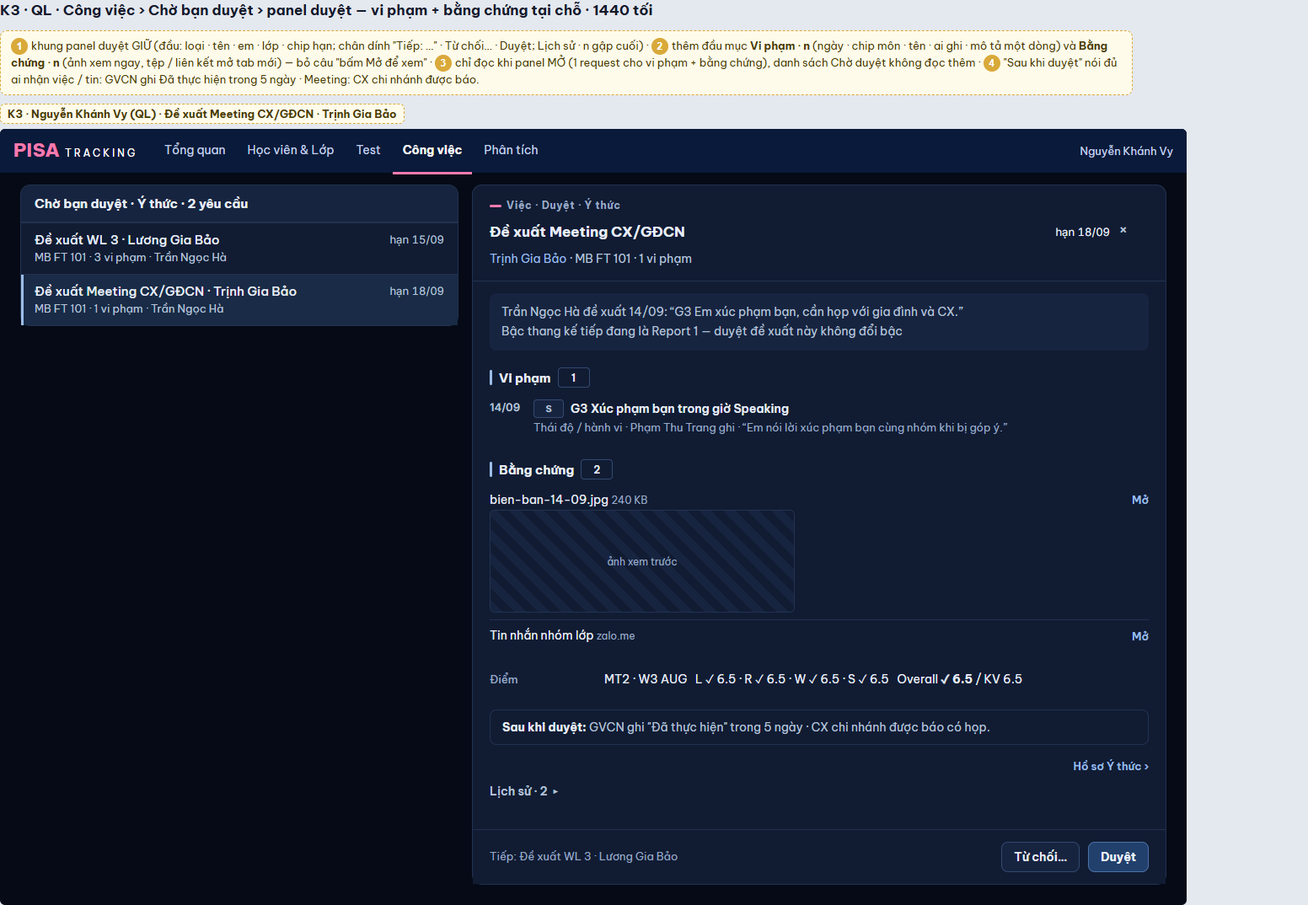
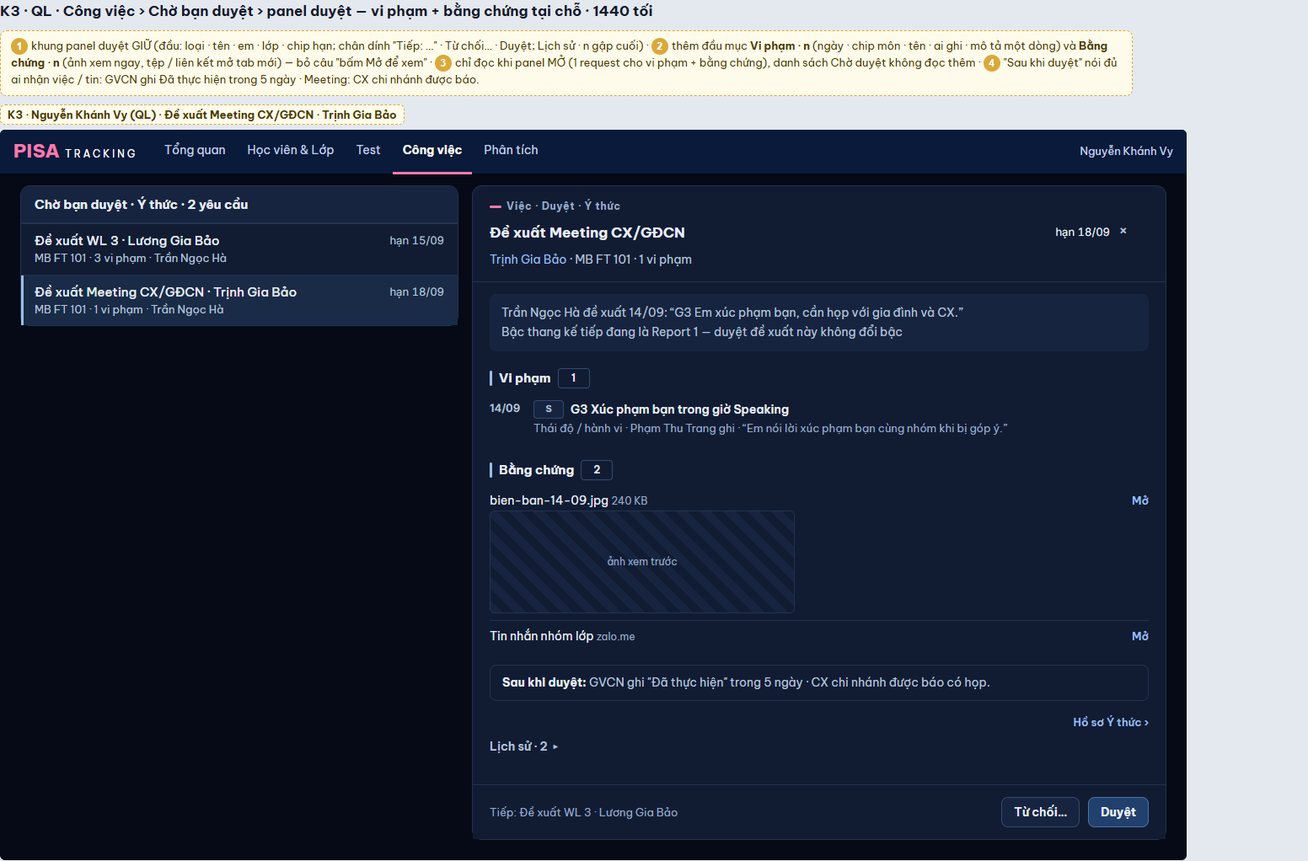
Ý thức #6 (web): đề xuất một màn (bằng chứng trong form, một nút Gửi QL duyệt) · panel duyệt QL hiện vi phạm + bằng chứng · mockup bỏ dòng Điểm · ảnh cặp + khop-khac

diff --git a/web/src/modules/yThuc/XacNhanXuLyPanel.tsx b/web/src/modules/yThuc/XacNhanXuLyPanel.tsx
@@ -7,7 +7,6 @@ import { useLoiForm } from '../../ui/loiForm.tsx';
 import { ONgay } from '../../ui/ONgay.tsx';
 import { ChipHan } from '../../ui/Nhan.tsx';
 import { BoiCanh, CanLam, NutChu, TrangThaiLuu, dauViec } from '../../ui/KhuonViec.tsx';
-import { BangChung } from '../../ui/BangChung.tsx';
 import { TepCho, taiTepCho, type TepChoMuc } from '../../ui/TepCho.tsx';
 import { ChonNguoi } from '../../ui/PeoplePicker.tsx';
 import { OKhac } from '../../ui/OKhac.tsx';
@@ -35,7 +34,7 @@ const canTep = (loai: string) => (LOAI_DE_XUAT as readonly string[]).includes(lo
  *
  * Xác nhận xử lý: bậc TỰ ĐIỀN (chỉ đọc — máy chủ quyết, `bacDaThay` lệch → 409), vi phạm tick theo `macDinhTick` (K3-36, nhóm
  * "Cũ hơn" gập), ngày ≤ hôm nay, người thực hiện (nhận tên ngoài), mô tả bắt buộc. Lưu xong ở lại panel để đính kèm tệp (tuỳ chọn).
- * Đề xuất: loại · vi phạm · mô tả → `Tiếp: đính kèm bằng chứng` tạo NHÁP (chủ của tệp) → bằng chứng BẮT BUỘC → `Gửi QL duyệt`.
+ * Đề xuất (#6, mockup #1346 — MỘT màn): loại · vi phạm · lý do · bằng chứng (chọn trong form, BẮT BUỘC với loại ngoài thang) → `Gửi QL duyệt`.
  * Đóng panel khi nháp chưa gửi thì xoá nháp (Q10). Bậc kế cần QL (WL 3) hoặc hết thang → mở thẳng chế độ Đề xuất.
  * OV-12e (mockup v3 §8): khuôn panel v3 — đầu "Xác nhận xử lý" + chip hạn / tên em (link) · lớp · Ý thức; MỘT khối Cần làm (Bậc xử lý tự điền · vi phạm đưa vào
  * · Ngày * (ô ngày gõ được) · Người * · Mô tả * · nút chính; "Đề xuất QL duyệt" là nút chữ); Bối cảnh: Lần trước · Bậc tiếp theo; chân trạng thái lưu.
@@ -67,11 +66,12 @@ export function XacNhanXuLyPanel({ studentId, cheDo: cheDoMo = 'xu-ly', tickThem
   /** [XM 5] (chủ SP 11/11): tệp chọn NGAY trong form (như Ghi vi phạm), tải sau khi lưu — không tệp / tải xong thì panel tự đóng, không bước "Xong". */
   const [tep, setTep] = useState<TepChoMuc[]>([]);
   const [loiLuu, setLoiLuu] = useState<string | null>(null);
-  /** Sau khi lưu: lần xử lý vừa tạo (bước đính kèm tệp tuỳ chọn) hoặc NHÁP đề xuất (bước bằng chứng bắt buộc). */
-  const [daLuu, setDaLuu] = useState<{ id: number; loai: 'xu-ly' | 'nhap'; nhan: string } | null>(null);
+  /** Sau khi lưu xử lý mà tệp tải lỗi: lần xử lý vừa tạo (ở lại để Thử lại tệp). */
+  const [daLuu, setDaLuu] = useState<{ id: number; loai: 'xu-ly'; nhan: string } | null>(null);
+  /** #6: nháp đề xuất đã tạo nhưng chưa gửi (tệp lỗi) — đóng panel thì xoá. */
+  const nhapDo = useRef<number | null>(null);
   const lf = useLoiForm();
   const idempotencyKey = useMemo(() => `xu-ly:${studentId}:${Date.now()}:${Math.random().toString(36).slice(2, 8)}`, [studentId]);
-  const nhap = useApi<XuLyView>(daLuu?.loai === 'nhap' ? `/y-thuc/xu-ly/${daLuu.id}` : null, [daLuu?.id]);
 
   useEffect(() => {
     if (!d) return;
@@ -101,13 +101,15 @@ export function XacNhanXuLyPanel({ studentId, cheDo: cheDoMo = 'xu-ly', tickThem
     ...(cheDo === 'de-xuat' && loai === 'other' ? [{ khoa: 'ghi-ro', nhan: t('Ghi rõ'), toiThieu: KHAC_TOI_THIEU }] : []),
     { khoa: 'mo-ta', nhan: t('Mô tả'), toiThieu: MO_TA_MIN },
   ], { 'vi-pham': chon.size ? 'co' : '', loai, 'ghi-ro': tenKhac, 'mo-ta': moTa }).concat(
-    cheDo === 'xu-ly' && tep.some((m) => m.loi && !m.daGui) ? [{ khoa: 'tep', nhan: t('Tệp'), lyDo: t('Bỏ tệp lỗi') }] : []);
+    tep.some((m) => m.loi && !m.daGui) ? [{ khoa: 'tep', nhan: t('Tệp'), lyDo: t('Bỏ tệp lỗi') }]
+      /* #6: đề xuất loại ngoài thang bắt bằng chứng (V4-10, LUAT-5) — báo ngay khi bấm Gửi, không gọi máy chủ. */
+      : cheDo === 'de-xuat' && canTep(loai) && !tep.length ? [{ khoa: 'tep', nhan: t('Bằng chứng'), lyDo: t('Cần đính kèm tệp hoặc liên kết') }] : []);
   const loiNguoi = cheDo === 'xu-ly' ? nguoiThieu(nguoi, true) : null;
 
-  /** Đóng: nháp chưa gửi thì xoá (không để nháp mồ côi); lần xử lý đã lưu thì báo nơi gọi làm mới. */
+  /** Đóng: đề xuất dở (tệp tải lỗi, chưa gửi) thì xoá nháp máy chủ — chữ đang gõ vẫn ở nháp của panel. */
   const dong = async () => {
-    if (daLuu?.loai === 'nhap') {
-      try { await api.del(`/y-thuc/xu-ly/${daLuu.id}`); } catch { /* nháp đã gửi hoặc đã xoá — không có gì để dọn */ }
+    if (nhapDo.current) {
+      try { await api.del(`/y-thuc/xu-ly/${nhapDo.current}`); } catch { /* nháp đã gửi hoặc đã xoá — không có gì để dọn */ }
     }
     onClose();
   };
@@ -156,28 +158,29 @@ export function XacNhanXuLyPanel({ studentId, cheDo: cheDoMo = 'xu-ly', tickThem
     setDaLuu({ id, loai: 'xu-ly', nhan });
   };
 
-  const taoNhap = async () => {
+  /**
+   * #6 (mockup #1346 K1–K2): MỘT nút "Gửi QL duyệt" = tạo nháp (chủ của tệp) → tải tệp chờ → gửi. Tệp lỗi → chưa gửi (QL chưa thấy gì), ở lại, chữ giữ;
+   * Thử lại = làm lại từ đầu (máy chủ dọn nháp cũ của cùng người · cùng em, tải lại mọi tệp) — form có thể đã sửa giữa hai lần.
+   */
+  const guiDeXuat = async () => {
     lf.bam();
     if (loi.length) return;
-    setBusy(true);
+    setBusy(true); setLoiLuu(null);
     try {
       const m = await api.post<{ id: number; nhan: string }>(`/students/${studentId}/y-thuc/de-xuat`, {
         kind: loai, customName: loai === 'other' ? tenKhac.trim() : undefined, violationIds: [...chon], note: moTa.trim(),
       });
-      xoaNhap();
-      setDaLuu({ id: m.id, loai: 'nhap', nhan: m.nhan });
-    } catch (e: any) { toast.push('error', e.message); } finally { setBusy(false); }
-  };
-
-  const gui = async () => {
-    if (!daLuu) return;
-    setBusy(true);
-    try {
-      await api.post(`/y-thuc/xu-ly/${daLuu.id}/gui`);
-      lamMoi();
-      toast.push('ok', t('Đã gửi QL duyệt {nhan} cho {ten}. QL trả lời trong 5 ngày.', { nhan: daLuu.nhan, ten: d.ten }));
-      onClose(); onDone?.();
-    } catch (e: any) { toast.push('error', e.message); } finally { setBusy(false); }
+      nhapDo.current = m.id;
+      const kq = await taiTepCho(tep.map((x) => ({ ...x, xong: undefined, tuId: undefined, loi: undefined, daGui: undefined })), { ownerType: 'discipline_measure', ownerIds: [m.id] });
+      setTep(kq);
+      const loiTep = kq.filter((x) => !x.xong).length;
+      if (loiTep) { setLoiLuu(t('Chưa gửi — {n} tệp tải lỗi', { n: loiTep })); return; }
+      await api.post(`/y-thuc/xu-ly/${m.id}/gui`);
+      nhapDo.current = null;
+      xoaNhap(); setMoTa(''); lamMoi(); onDone?.();
+      toast.push('ok', t('Đã gửi QL duyệt {nhan} cho {ten}. QL trả lời trong 5 ngày.', { nhan: m.nhan, ten: d.ten }));
+      setTimeout(onClose, 0);
+    } catch (e: any) { setLoiLuu(e.message); } finally { setBusy(false); }
   };
 
   /* ---------------------------------------------------------------- bước 2: đã lưu */
@@ -199,31 +202,6 @@ export function XacNhanXuLyPanel({ studentId, cheDo: cheDoMo = 'xu-ly', tickThem
       </KhungPanel>
     );
   }
-  if (daLuu?.loai === 'nhap') {
-    const soTep = nhap.data?.soTep ?? 0;
-    const thieuTep = soTep === 0 && canTep(loai);
-    const nutGui = <button type="button" className="btn btn-primary min-h-[40px] px-4 font-bold" disabled={busy}
-      onClick={() => { lf.bam(); if (!thieuTep) void gui(); }}>{t('Gửi Quản lý duyệt · trả lời trong 5 ngày')}</button>;
-    return (
-      <KhungPanel tieuDe={t('Đề xuất QL duyệt')} hocVien={d.ten} onDong={dong} dau={dau(false)}
-        chan={{ v3: true, chinh: nutGui, conThieu: thieuTep && lf.daBam ? [{ nhan: t('Bằng chứng'), lyDo: t('Cần đính kèm tệp hoặc liên kết') }] : undefined }}>
-        <div className="flex flex-col gap-5 pt-4">
-          <CanLam>
-            <p className="m-0 text-sm font-bold text-slate-100">{dich(daLuu.nhan)} · {t('{n} vi phạm', { n: chon.size })}</p>
-            <div>
-              <span className="mb-1 block text-[13px] font-semibold text-slate-300">{t('Bằng chứng')}{canTep(loai) && <span aria-hidden className="text-bad"> *</span>}</span>
-              <BangChung ownerType="discipline_measure" ownerId={daLuu.id} canEdit tieuDe="" onChanged={nhap.reload} />
-            </div>
-            <div className="flex flex-wrap items-center gap-1.5 pt-0.5">
-              <span className="max-sm:hidden">{nutGui}</span>
-              <NutChu mo onClick={() => void dong()}>{t('Huỷ đề xuất')}</NutChu>
-            </div>
-          </CanLam>
-        </div>
-      </KhungPanel>
-    );
-  }
-
   /* ---------------------------------------------------------------- bước 1 */
   const bacKe = d.keTiep;
   const dongVp = (v: ViPhamV4) => (
@@ -249,21 +227,23 @@ export function XacNhanXuLyPanel({ studentId, cheDo: cheDoMo = 'xu-ly', tickThem
   const bacSau = iNay >= 0 ? d.dongThang[iNay + 1]?.nhan ?? null : null;
   const nutChinh = cheDo === 'xu-ly'
     ? <button type="button" className="btn btn-primary min-h-[40px] px-4 font-bold" disabled={busy} onClick={luuXuLy}>{busy ? t('Đang lưu…') : t('Xác nhận xử lý')}</button>
-    : <button type="button" className="btn btn-primary min-h-[40px] px-4 font-bold" disabled={busy} onClick={taoNhap}>{t('Tiếp: đính kèm bằng chứng')}</button>;
+    : <button type="button" className="btn btn-primary min-h-[40px] px-4 font-bold" disabled={busy} onClick={() => void guiDeXuat()}>{busy ? t('Đang gửi…') : t('Gửi QL duyệt')}</button>;
   const nhanO = (chu: string, batBuoc = false) => <span className="mb-1.5 block text-[13px] font-semibold text-slate-300">{chu}{batBuoc && <span aria-hidden className="text-bad"> *</span>}</span>;
   return (
-    <KhungPanel tieuDe={tieuDe} hocVien={d.ten} onDong={onClose} dau={dau(cheDo === 'xu-ly')}
+    <KhungPanel tieuDe={tieuDe} hocVien={d.ten} onDong={() => void dong()} dau={dau(cheDo === 'xu-ly')}
       chan={{
         v3: true, chinh: nutChinh, daSua: !!moTa.trim(),
         conThieu: lf.conThieu(loi) ?? (lf.daBam && loiNguoi ? [{ nhan: t('Người thực hiện'), lyDo: loiNguoi }] : undefined),
-        dongTren: busy || loiLuu ? <TrangThaiLuu tt={busy ? 'dang' : 'loi'} loi={loiLuu} onThuLai={() => void luuXuLy()} /> : undefined,
+        dongTren: busy || loiLuu ? <TrangThaiLuu tt={busy ? 'dang' : 'loi'} loi={loiLuu} onThuLai={() => void (cheDo === 'xu-ly' ? luuXuLy() : guiDeXuat())} /> : undefined,
       }}>
       <div className="flex flex-col gap-5 pt-4">
         {/* Y-THUC-V2 (mockup K8a / K8c): dải ①②③ cùng thứ tự tab Ý thức — bước GVCN là việc của người xem. */}
         <TienTrinh nay={1} buoc={[
           [t('{n} vi phạm', { n: tick.length + cuHon.length }), ngayVp.length ? `${ngay(ngayVp[0], homNay)} – ${ngay(ngayVp[ngayVp.length - 1], homNay)}` : null],
-          [d.nhom ? <CanLamEm x={d} homNay={homNay} /> : t('Xác nhận xử lý'), cheDo === 'xu-ly' && bacKe ? <>{t('Lần này')} <b className="text-slate-100">{dich(bacKe.nhan)}</b></> : null],
-          [<span className="font-medium text-slate-400">{t('Sau khi lưu')}</span>, t('việc cho TVV của em, hạn 5 ngày')],
+          /* #6 (mockup #1346 K1): đề xuất — ô ② nói việc đang làm (Gửi QL duyệt) + ai trả lời khi nào. */
+          cheDo === 'de-xuat' ? [t('Gửi QL duyệt'), t('QL trả lời trong 5 ngày')]
+            : [d.nhom ? <CanLamEm x={d} homNay={homNay} /> : t('Xác nhận xử lý'), bacKe ? <>{t('Lần này')} <b className="text-slate-100">{dich(bacKe.nhan)}</b></> : null],
+          [<span className="font-medium text-slate-400">{cheDo === 'xu-ly' ? t('Sau khi lưu') : t('Sau khi gửi')}</span>, t('việc cho TVV của em, hạn 5 ngày')],
         ]} />
         <CanLam>
           {cheDo === 'xu-ly' && bacKe ? (
@@ -342,11 +322,10 @@ export function XacNhanXuLyPanel({ studentId, cheDo: cheDoMo = 'xu-ly', tickThem
               placeholder={cheDo === 'xu-ly' ? t('Ví dụ: Đã gửi Report cho PH qua Zalo')
                 : t('Ví dụ: Vi phạm lần 4 sau WL 2, đã báo PH')} />
           </Truong>
-          {cheDo === 'xu-ly' && (
-            <Truong nhan={t('Bằng chứng')} tuyChon as="div">
-              <div id={lf.oId('tep')} tabIndex={-1}><TepCho value={tep} onChange={setTep} khoa={busy} /></div>
-            </Truong>
-          )}
+          {/* [XM 5] / #6: bằng chứng chọn NGAY trong form — tải sau khi lưu / khi Gửi. Đề xuất loại ngoài thang: bắt buộc. */}
+          <Truong nhan={t('Bằng chứng')} batBuoc={cheDo === 'de-xuat' && canTep(loai)} tuyChon={!(cheDo === 'de-xuat' && canTep(loai))} as="div" loi={lf.loiCua(loi, 'tep')}>
+            <div id={lf.oId('tep')} tabIndex={-1}><TepCho value={tep} onChange={setTep} khoa={busy} /></div>
+          </Truong>
           <div className="flex flex-wrap items-center gap-1.5 pt-0.5">
             <span className="max-sm:hidden">{nutChinh}</span>
             {/* Chủ sản phẩm 02/10 → mockup v3 §8: "Đề xuất QL duyệt" là nút chữ đứng sau nút chính. */}

diff --git a/web/src/modules/yThuc/KhoiDuyetYThuc.tsx b/web/src/modules/yThuc/KhoiDuyetYThuc.tsx
@@ -1,0 +1,69 @@
+import { useApi } from '../../lib/useApi.ts';
+import { ErrorState, Skeleton } from '../../ui/ui.tsx';
+import { useNgayNghiepVu } from '../../ui/ngayNghiepVu.ts';
+import { fmtSize } from '../../ui/TepCho.tsx';
+import { ngay } from '@shared/domain/index.ts';
+import { dich, t } from '@shared/i18n/index.ts';
+import { ChipMon } from './BangLan.tsx';
+import type { XuLyView } from './kieu.ts';
+
+type Tep = { id: number; kind: 'file' | 'link'; displayName: string; href: string; sizeBytes: number | null };
+const LA_ANH = /\.(png|jpe?g|gif|webp)$/i;
+const tenMien = (url: string) => { try { return new URL(url).host; } catch { return url; } };
+
+/** Đầu mục trong panel (V21: 15 / 700, vạch 3 × 18 px nhấn, chip đếm vuông). */
+function DauMuc({ chu, n }: { chu: string; n: number }) {
+  return (
+    <h3 className="m-0 mt-5 flex items-center gap-2 text-[15px] font-bold text-[color:var(--text)]">
+      <span aria-hidden className="h-[18px] w-[3px] rounded-sm bg-[color:var(--accent)]" />{chu}
+      <span className="rounded border px-1.5 text-xs font-semibold tabular-nums" style={{ borderColor: 'var(--line-strong)' }}>{n}</span>
+    </h3>
+  );
+}
+
+/**
+ * #6 (rà 11/11 G3-5, mockup #1346 K3): panel duyệt của QL — vi phạm + bằng chứng của lần xử lý NGAY tại chỗ (không phải Mở › hồ sơ HV › quay lại).
+ * MỘT request khi panel mở (`kemTep=1`); danh sách Chờ duyệt không đọc thêm. Ảnh xem ngay; tệp / liên kết mở tab mới.
+ */
+export function KhoiDuyetYThuc({ measureId }: { measureId: number }) {
+  const { homNay } = useNgayNghiepVu();
+  const { data, error, reload } = useApi<XuLyView & { tep: Tep[] }>(`/y-thuc/xu-ly/${measureId}?kemTep=1`, [measureId]);
+  if (error) return <div className="mt-3"><ErrorState message={error.message} hint={error.hint} onRetry={reload} /></div>;
+  if (!data) return <div className="mt-3"><Skeleton rows={2} /></div>;
+  return (
+    <div className="text-sm">
+      <DauMuc chu={t('Vi phạm')} n={data.viPham.length} />
+      <ul className="m-0 mt-1.5 list-none divide-y p-0" style={{ borderColor: 'var(--line)' }}>
+        {data.viPham.map((v) => (
+          <li key={v.id} className="grid grid-cols-[44px_minmax(0,1fr)] gap-x-2 py-2">
+            <span className="pt-0.5 text-[13px] font-semibold tabular-nums text-dim">{ngay(v.occurredOn, homNay)}</span>
+            <span className="min-w-0">
+              <span className="flex items-start"><ChipMon skill={v.skill} /><b className="font-semibold text-[color:var(--text)]">{v.ten}</b></span>
+              <span className="block text-[13px] text-slate-400">
+                {[dich(v.categoryLabel), v.reportedByName ? t('{ten} ghi', { ten: v.reportedByName }) : null, v.moTa ? `“${v.moTa}”` : null].filter(Boolean).join(' · ')}
+              </span>
+            </span>
+          </li>
+        ))}
+      </ul>
+      <DauMuc chu={t('Bằng chứng')} n={data.tep.length} />
+      {data.tep.length === 0 ? <p className="m-0 mt-1.5 text-[13px] text-slate-400">{t('Không có tệp hoặc liên kết.')}</p> : (
+        <ul className="m-0 mt-1.5 list-none divide-y p-0" style={{ borderColor: 'var(--line)' }}>
+          {data.tep.map((f) => (
+            <li key={f.id} className="py-2">
+              <span className="flex flex-wrap items-baseline gap-x-2">
+                <span className="min-w-0 break-all text-[color:var(--text)]">{f.displayName}</span>
+                <span className="text-xs text-slate-400">{f.kind === 'file' ? (f.sizeBytes != null ? fmtSize(f.sizeBytes) : '') : tenMien(f.href)}</span>
+                <a className="link-nho ml-auto inline-flex min-h-[44px] items-center sm:min-h-0" href={f.href} target="_blank" rel="noopener noreferrer"
+                  aria-label={t('Mở {ten}', { ten: f.displayName })}>{t('Mở')}</a>
+              </span>
+              {f.kind === 'file' && LA_ANH.test(f.displayName) && (
+                <img src={f.href} alt={f.displayName} loading="lazy" className="mt-1.5 max-h-40 max-w-full rounded-md border object-contain" style={{ borderColor: 'var(--line)' }} />
+              )}
+            </li>
+          ))}
+        </ul>
+      )}
+    </div>
+  );
+}

diff --git a/thiet-ke/2026-11-11-y-thuc-de-xuat/de-xuat-mot-man.html b/thiet-ke/2026-11-11-y-thuc-de-xuat/de-xuat-mot-man.html
@@ -763,7 +763,7 @@ tr.mo-bph > td { padding:0 16px 16px !important; background:var(--accent-soft); 
   <header class="dau-mk">
     <h1>Đề xuất QL duyệt Ý thức một màn + QL duyệt tại chỗ — mockup #6 (rà toàn bộ 11/11, CHỜ DUYỆT)</h1>
     <p>Nguồn: bản rà toàn bộ 11/11 mục 3 #6 (G3-4, G3-5, G3-7, G3-8) — chủ SP 11/11 "Theo hết 10 đề xuất". Ngày demo <b>14/09/2026 · W3 SEP</b>, em <b>Trịnh Gia Bảo</b> (MB FT 101, GVCN Trần Ngọc Hà, TVV Lê Thu, QL Nguyễn Khánh Vy, CX Vũ Thanh Tâm).
-      Hình ảnh giữ panel Ý thức V2 đã duyệt (K8: dải ①②③, chip môn, chân lưu). Luật nghiệp vụ <b>không đổi</b>: bằng chứng bắt buộc khi gửi (V4-10, LUAT-5), QL trả lời trong 5 ngày, việc TVV sinh ngay (N1).</p>
+      Hình ảnh giữ panel Ý thức V2 đã duyệt (K8: dải ①②③, chip môn, chân lưu). <b>Chủ SP 11/11:</b> màn Ý thức không có dòng điểm (bỏ ở K3). Luật nghiệp vụ <b>không đổi</b>: bằng chứng bắt buộc khi gửi (V4-10, LUAT-5), QL trả lời trong 5 ngày, việc TVV sinh ngay (N1).</p>
     <nav class="muc-mk"><a href="#k0">K0 · hiện trạng</a><a href="#k1">K1 · GVCN một màn 1440</a><a href="#k2">K2 · thiếu bằng chứng / tệp lỗi</a><a href="#k3">K3 · QL duyệt tại chỗ 1440</a><a href="#k4">K4 · sau duyệt: chuông GVCN + CX</a><a href="#k5">K5 · 375</a><a href="#bang">Bảng TRƯỚC → SAU</a></nav>
   </header>
 
@@ -892,7 +892,6 @@ tr.mo-bph > td { padding:0 16px 16px !important; background:var(--accent-soft); 
             <p class="dm">Bằng chứng <span class="dem">2</span></p>
             <div class="tep-ql"><span>bien-ban-14-09.jpg <span class="ph">240 KB</span></span><span class="link-nho">Mở</span><span class="anh-nho">ảnh xem trước</span></div>
             <div class="tep-ql"><span>Tin nhắn nhóm lớp <span class="ph">zalo.me</span></span><span class="link-nho">Mở</span></div>
-            <dl class="fld" style="margin-top:14px"><dt>Điểm</dt><dd style="font-size:14px">MT2 · W3 AUG &nbsp; L ✓ 6.5 · R ✓ 6.5 · W ✓ 6.5 · S ✓ 6.5 &nbsp; Overall <b>✓ 6.5</b> / KV 6.5</dd></dl>
             <div class="sau-duyet"><b>Sau khi duyệt:</b> GVCN ghi "Đã thực hiện" trong 5 ngày · CX chi nhánh được báo có họp.</div>
             <p style="margin:14px 0 0;text-align:right"><span class="link-nho">Hồ sơ Ý thức ›</span></p>
             <p style="margin:10px 0 0;font:600 14px var(--phong);color:var(--text-dim)">Lịch sử · 2 ▸</p>

diff --git a/server/src/tests/prYt4.tests.ts b/server/src/tests/prYt4.tests.ts
@@ -917,10 +917,10 @@ export async function runPrYt4Tests(t: YThucTestKit) {
     assert(payload && !/\bkind\b/.test(payload) && /bacDaThay/.test(payload), payload);
     assert(/status === 409/.test(s) && /Bậc vừa đổi — đã mở lại với bậc mới/.test(s), '409');
   });
-  check('YT4 (8) · Đề xuất QL duyệt: nháp → bằng chứng bắt buộc → "Gửi Quản lý duyệt · trả lời trong 5 ngày"; đóng giữa chừng xoá nháp', () => {
+  check('YT4 (8) · Đề xuất QL duyệt: MỘT màn (#6): bằng chứng chọn trong form (bắt buộc loại ngoài thang) → "Gửi QL duyệt" = nháp → tải tệp → gửi; đóng khi dở xoá nháp', () => {
     const s = docW(`${YT}/XacNhanXuLyPanel.tsx`);
-    assert(/y-thuc\/de-xuat/.test(s) && /\/gui`/.test(s) && /Gửi Quản lý duyệt · trả lời trong 5 ngày/.test(s), 'luồng');
-    assert(/api\.del\(`\/y-thuc\/xu-ly\/\$\{daLuu\.id\}`\)/.test(s) && /Cần đính kèm tệp hoặc liên kết/.test(s), 'xoá nháp + bằng chứng');
+    assert(/y-thuc\/de-xuat/.test(s) && /\/gui`/.test(s) && /t\('Gửi QL duyệt'\)/.test(s) && /taiTepCho\(/.test(s) && !/Tiếp: đính kèm bằng chứng/.test(s), 'luồng');
+    assert(/api\.del\(`\/y-thuc\/xu-ly\/\$\{nhapDo\.current\}`\)/.test(s) && /Cần đính kèm tệp hoặc liên kết/.test(s), 'xoá nháp + bằng chứng');
     assert(/Cần xử lý nặng hơn/.test(s) && /t\('Khai cấp bậc'\)/.test(s), 'nút Đề xuất + dòng Khai cấp bậc (Q7; rà 11/11 G3-11)');
   });
   /* KHAI-BAC-LO (chủ SP 28/10): ghi chú khai TUỲ CHỌN (từng em và theo lô). */

diff --git a/web/src/modules/duyet/TheYeuCau.tsx b/web/src/modules/duyet/TheYeuCau.tsx
@@ -8,6 +8,7 @@ import { NhanTrangThai, NutChon } from '../../ui/ui.tsx';
 import { ChipHan } from '../../ui/Nhan.tsx';
 import { NguoiGiu, ThePhu } from '../congViec/DanhSachViec.tsx';
 import { DongDiem } from '../../ui/SoLieu.tsx';
+import { KhoiDuyetYThuc } from '../yThuc/KhoiDuyetYThuc.tsx';
 import { ONgay } from '../../ui/ONgay.tsx';
 import { OKhac } from '../../ui/OKhac.tsx';
 import { useNgayNghiepVu } from '../../ui/ngayNghiepVu.ts';
@@ -286,6 +287,8 @@ export function TheYeuCau({ yc, onXong, gon, laNguoiXin, chon, nhanManh, onThemP
                 </dl>
               )}
             </div>
+            {/* #6 (G3-5, mockup #1346 K3): đề xuất / thu hồi Ý thức — vi phạm + bằng chứng ngay trong panel duyệt (đọc khi mở). */}
+            {panel && cho && (yc.loai === 'y_thuc' || yc.loai === 'thu_hoi_y_thuc') && yc.doiTuongId != null && <KhoiDuyetYThuc measureId={yc.doiTuongId} />}
             {/* CD-GON (M4): "Nếu duyệt" lặp ý tiêu đề → mở bằng "Xem thêm" (và `title` nút Duyệt); panel vẫn có khối "Sau khi duyệt". */}
             {(biCat || moHet || (!!yc.neuDuyet && cho)) && !panel && (
               <button type="button" className="order-last shrink-0 min-h-[44px] text-[12px] text-[color:var(--accent-strong)] hover:underline sm:min-h-0" onClick={() => setMoHet(!moHet)}

diff --git a/shared/i18n/en/d.ts b/shared/i18n/en/d.ts
@@ -453,7 +453,12 @@ const EN_D_WEB = {
   'Bằng chứng · bắt buộc': 'Evidence · required',
   'Biên bản, thư, ảnh chụp… — QL xem bằng chứng trước khi duyệt.': 'Minutes, letters, photos… — the manager reviews evidence before approving.',
   'Cần xử lý nặng hơn: Meeting CX/GĐCN, WL 3, Đình chỉ…': 'Need a stronger action: Meeting CX/BD, WL 3, Suspension…',
-  'Tiếp: đính kèm bằng chứng': 'Next: attach evidence',
+  /* #6 (rà 11/11): đề xuất một màn. */
+  'Gửi QL duyệt': 'Send for approval',
+  'Sau khi gửi': 'After sending',
+  'QL trả lời trong 5 ngày': 'Manager replies within 5 days',
+  'Chưa gửi — {n} tệp tải lỗi': 'Not sent — {n} files failed to upload',
+  'Không có tệp hoặc liên kết.': 'No files or links.',
   'Bậc xử lý': 'Action level',
   '· lần xử lý thứ {x} trong {x2}': '· action no. {x} in {x2}',
   'các khoá lớp thường': 'Normal courses',

diff --git a/thiet-ke/2026-11-11-y-thuc-de-xuat/khop-khac.md b/thiet-ke/2026-11-11-y-thuc-de-xuat/khop-khac.md
@@ -1,0 +1,35 @@
+# #6 — khớp / khác mockup #1346 (đề xuất một màn + QL duyệt tại chỗ)
+
+Ảnh cặp mockup | web: `docs/superpowers/specs/2026-11-11-ra-toan-bo/anh-pr/6/cap-k1…k5.png` (seed, 14/09, tối).
+
+| Khung | Thành phần | Ảnh | Đánh giá |
+|---|---|---|---|
+| K1 | dải ①②③ (② "Gửi QL duyệt · QL trả lời trong 5 ngày", ③ "Sau khi gửi · việc cho TVV") | cap-k1 | KHỚP |
+| K1 | Loại cần QL duyệt (4 nút chọn) · Vi phạm đưa vào · Lý do * | cap-k1 | KHỚP |
+| K1 | Bằng chứng * chọn trong form (+ Tệp · + Liên kết, dán / kéo thả) | cap-k1 | KHỚP |
+| K1 | nút "Gửi QL duyệt" + "← Quay lại Xác nhận xử lý" | cap-k1 | KHÁC (GIỮ): web đặt hai nút trong khối Cần làm như mọi panel v3 (375: nút chính ở chân) — mockup vẽ ở chân 1440 |
+| K1 | dòng "Duyệt đề xuất ngoài thang không đổi bậc — bậc kế vẫn là …" | cap-k1 | KHÁC (GIỮ): lưu ý hậu quả sẵn có (bo-chu-thich: giữ lưu ý cần thiết) |
+| K1b | sau Gửi: panel đóng, toast, dòng em "Đề xuất … · chờ QL" | cap-k1 | KHỚP |
+| K2a | thiếu bằng chứng: lỗi tại ô + chân "Còn 1 ô cần sửa" | cap-k2 | KHỚP (chữ chân theo mẫu chung "Còn n ô cần sửa") |
+| K2b | tệp tải lỗi: "Chưa gửi — n tệp tải lỗi" + Thử lại | — | KHỚP theo mã (không dựng được lỗi mạng trên seed) |
+| K3 | khung panel duyệt (đầu, lý do, Sau khi duyệt, Lịch sử, chân Tiếp · Từ chối… · Duyệt) | cap-k3 | KHỚP |
+| K3 | Vi phạm · n (ngày · chip môn · tên · ai ghi · mô tả) | cap-k3 | KHỚP |
+| K3 | Bằng chứng · n (ảnh xem trước, Mở) | cap-k3 | KHỚP (seed chỉ có liên kết — ảnh xem trước hiện khi tệp là ảnh) |
+| K3 | bỏ dòng "Điểm" (chủ SP 11/11) | cap-k3 | KHỚP — mockup đã bỏ dòng này |
+| K3 | link cuối "Hồ sơ Ý thức ›" | cap-k3 | KHÁC (GIỮ): khung duyệt chung ghi "Mở ›" cho mọi loại thẻ (cùng đường hồ sơ HV tab Ý thức) |
+| K4a | chuông GVCN: "QL đã duyệt … · ghi Đã thực hiện" ở Cần làm, hạn, "Công việc ›" | cap-k4 | KHỚP (xếp theo hạn trong Cần làm) |
+| K4b | chuông CX: "Có Meeting CX/GĐCN · em · lớp", GVCN, "Hồ sơ … › Ý thức ›" | cap-k4 | KHỚP |
+| K5 | 375 GVCN + QL | cap-k5 | KHỚP |
+
+Đếm: 16 dòng · 13 KHỚP · 3 KHÁC có lý do (GIỮ mẫu chung) → 13 / 16 = 81 % "khớp tuyệt đối", 100 % nếu tính KHÁC có lý do theo luật V1 (giữ thao tác / mẫu sẵn có). Hình ảnh (màu, nền, viền, cỡ chữ, khoảng cách) theo mockup.
+
+## Thao tác TRƯỚC → SAU
+| Thao tác | Trước | Sau |
+|---|---|---|
+| GVCN gửi đề xuất có bằng chứng | 10 bấm, 2 màn ("Tiếp: đính kèm bằng chứng" → Gửi) | 7 bấm, 1 màn ("Gửi QL duyệt") |
+| Đóng giữa chừng | mất lý do (màn 2) · nháp mồ côi (đóng tab) | lý do giữ ở nháp panel · nháp cũ cùng người · cùng em dọn khi gửi lần sau |
+| Rút / sửa lý do / thêm, bỏ tệp khi chờ | Xem lần xử lý · Yêu cầu của tôi | GIỮ |
+| QL xem vi phạm + bằng chứng | Mở › hồ sơ HV › quay lại | ngay trong panel duyệt |
+| QL Duyệt / Từ chối… / Hoàn tác / Tiếp | có | GIỮ |
+| GVCN biết đã duyệt | chuông "Để biết" → Yêu cầu của tôi | chuông "Cần làm" + hạn → Công việc |
+| CX biết có Meeting | không | chuông "Để biết" |
